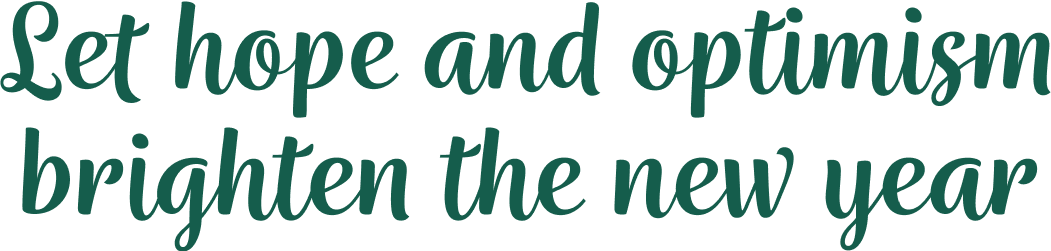
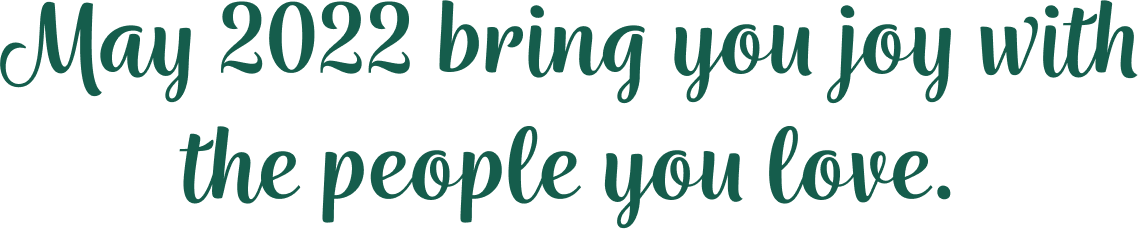
Updates to holiday email

diff --git a/holiday2021/card/index.html b/holiday2021/card/index.html
@@ -1,23 +1,152 @@
-<!doctype html><html xmlns="http://www.w3.org/1999/xhtml" xmlns:v="urn:schemas-microsoft-com:vml" xmlns:o="urn:schemas-microsoft-com:office:office"><head><title></title><!--[if !mso]><!--><meta http-equiv="X-UA-Compatible" content="IE=edge"><!--<![endif]--><meta http-equiv="Content-Type" content="text/html; charset=UTF-8"><meta name="viewport" content="width=device-width,initial-scale=1"><style type="text/css">#outlook a { padding:0; }
-          body { margin:0;padding:0;-webkit-text-size-adjust:100%;-ms-text-size-adjust:100%; }
-          table, td { border-collapse:collapse;mso-table-lspace:0pt;mso-table-rspace:0pt; }
-          img { border:0;height:auto;line-height:100%; outline:none;text-decoration:none;-ms-interpolation-mode:bicubic; }
-          p { display:block;margin:13px 0; }</style><!--[if mso]>
-        <noscript>
-        <xml>
-        <o:OfficeDocumentSettings>
-          <o:AllowPNG/>
-          <o:PixelsPerInch>96</o:PixelsPerInch>
-        </o:OfficeDocumentSettings>
-        </xml>
-        </noscript>
-        <![endif]--><!--[if lte mso 11]>
-        <style type="text/css">
-          .mj-outlook-group-fix { width:100% !important; }
-        </style>
-        <![endif]--><style type="text/css">@media only screen and (min-width:480px) {
-        .mj-column-per-100 { width:100% !important; max-width: 100%; }
-      }</style><style media="screen and (min-width:480px)">.moz-text-html .mj-column-per-100 { width:100% !important; max-width: 100%; }</style><style type="text/css">@media only screen and (max-width:480px) {
-      table.mj-full-width-mobile { width: 100% !important; }
-      td.mj-full-width-mobile { width: auto !important; }
-    }</style><style type="text/css">// @media all and (max-width: 480px) { // div { // font-size:16px !important; // } // }</style></head><body style="word-spacing:normal;background-color:#B7CDCD;"><div style="background-color:#B7CDCD;"><!-- Header --><!--[if mso | IE]><table align="center" border="0" cellpadding="0" cellspacing="0" class="" role="presentation" style="width:600px;" width="600" ><tr><td style="line-height:0px;font-size:0px;mso-line-height-rule:exactly;"><![endif]--><div style="margin:0px auto;max-width:600px;"><table align="center" border="0" cellpadding="0" cellspacing="0" role="presentation" style="width:100%;"><tbody><tr><td style="direction:ltr;font-size:0px;padding:0;padding-top:40px;text-align:center;"><!--[if mso | IE]><table role="presentation" border="0" cellpadding="0" cellspacing="0"><tr><td class="" style="vertical-align:top;width:600px;" ><![endif]--><div class="mj-column-per-100 mj-outlook-group-fix" style="font-size:0px;text-align:left;direction:ltr;display:inline-block;vertical-align:top;width:100%;"><table border="0" cellpadding="0" cellspacing="0" role="presentation" width="100%"><tbody><tr><td style="vertical-align:top;padding:0;"><table border="0" cellpadding="0" cellspacing="0" role="presentation" width="100%"><tbody><tr><td align="center" style="font-size:0px;padding:0;word-break:break-word;"><table border="0" cellpadding="0" cellspacing="0" role="presentation" style="border-collapse:collapse;border-spacing:0px;"><tbody><tr><td style="width:600px;"><a href="https://humboldt.edu" target="_blank" style="color: #444;"><img alt="Happy Holidays from Humboldt State" height="auto" src="https://mailings.humboldt.edu/holiday2021/card/header-img.png" style="border:0;display:block;outline:none;text-decoration:none;height:auto;width:100%;font-size:13px;" width="600"></a></td></tr></tbody></table></td></tr><tr><td align="center" style="font-size:0px;padding:0;word-break:break-word;"><table border="0" cellpadding="0" cellspacing="0" role="presentation" style="border-collapse:collapse;border-spacing:0px;"><tbody><tr><td style="width:600px;"><a href="https://humboldt.edu/holiday/2021" target="_blank" style="color: #444;"><img alt="Founders Hall with lights, watch the holiday video" height="auto" src="https://mailings.humboldt.edu/holiday2021/card/camp113021_0036.jpg" style="border:0;display:block;outline:none;text-decoration:none;height:auto;width:100%;font-size:13px;" width="600"></a></td></tr></tbody></table></td></tr></tbody></table></td></tr></tbody></table></div><!--[if mso | IE]></td></tr></table><![endif]--></td></tr></tbody></table></div><!--[if mso | IE]></td></tr></table><table align="center" border="0" cellpadding="0" cellspacing="0" class="" role="presentation" style="width:600px;" width="600" bgcolor="#ffffff" ><tr><td style="line-height:0px;font-size:0px;mso-line-height-rule:exactly;"><![endif]--><div style="background:#ffffff;background-color:#ffffff;margin:0px auto;max-width:600px;"><table align="center" border="0" cellpadding="0" cellspacing="0" role="presentation" style="background:#ffffff;background-color:#ffffff;width:100%;"><tbody><tr><td style="direction:ltr;font-size:0px;padding:0;text-align:center;"><!--[if mso | IE]><table role="presentation" border="0" cellpadding="0" cellspacing="0"><tr><td class="" style="vertical-align:top;width:600px;" ><![endif]--><div class="mj-column-per-100 mj-outlook-group-fix" style="font-size:0px;text-align:left;direction:ltr;display:inline-block;vertical-align:top;width:100%;"><table border="0" cellpadding="0" cellspacing="0" role="presentation" width="100%"><tbody><tr><td style="vertical-align:top;padding:0;"><table border="0" cellpadding="0" cellspacing="0" role="presentation" width="100%"><tbody><tr><td align="center" style="font-size:0px;padding:50px 60px 20px;word-break:break-word;"><table border="0" cellpadding="0" cellspacing="0" role="presentation" style="border-collapse:collapse;border-spacing:0px;"><tbody><tr><td style="width:480px;"><img alt="Let hope and optimism brighten the new year" height="auto" src="hope.png" style="border:0;display:block;outline:none;text-decoration:none;height:auto;width:100%;font-size:13px;" width="480"></td></tr></tbody></table></td></tr><tr><td align="center" style="font-size:0px;padding:0;padding-top:10px;padding-right:10px;padding-bottom:10px;padding-left:10px;word-break:break-word;"><div style="font-family:Arial, san-serif;;font-size:26px;line-height:1.2;text-align:center;color:#367B5E;">May the new year bring you happiness and laughter with the people you love.</div></td></tr><tr><td align="center" style="font-size:0px;padding:0;padding-top:10px;padding-right:10px;padding-bottom:10px;padding-left:10px;word-break:break-word;"><div style="font-family:Arial, san-serif;;font-size:20px;line-height:1.2;text-align:center;color:#367B5E;">Here’s to the promise of bright, bold beginnings<br>at Humboldt and beyond.<br><br>Warmest wishes for a magical holiday season.</div></td></tr><tr><td align="center" vertical-align="middle" style="font-size:0px;padding:0;padding-top:30px;padding-bottom:20px;word-break:break-word;"><table border="0" cellpadding="0" cellspacing="0" role="presentation" style="border-collapse:separate;line-height:100%;"><tbody><tr><td align="center" bgcolor="#88E2AF" role="presentation" style="border:none;border-radius:5px;cursor:auto;mso-padding-alt:20px;background:#88E2AF;" valign="middle"><a href="https://humboldt.edu/holiday/2021" style="display: inline-block; background: #88E2AF; color: #444444; font-family: Arial, san-serif; font-size: 18px; font-weight: bold; line-height: 1.2; margin: 0; text-decoration: none; text-transform: none; padding: 20px; mso-padding-alt: 0px; border-radius: 5px;" target="_blank">Watch the Holiday Video&nbsp;&nbsp;&#9654;</a></td></tr></tbody></table></td></tr></tbody></table></td></tr></tbody></table></div><!--[if mso | IE]></td></tr></table><![endif]--></td></tr></tbody></table></div><!--[if mso | IE]></td></tr></table><table align="center" border="0" cellpadding="0" cellspacing="0" class="" role="presentation" style="width:600px;" width="600" ><tr><td style="line-height:0px;font-size:0px;mso-line-height-rule:exactly;"><![endif]--><div style="margin:0px auto;max-width:600px;"><table align="center" border="0" cellpadding="0" cellspacing="0" role="presentation" style="width:100%;"><tbody><tr><td style="direction:ltr;font-size:0px;padding:0;padding-top:20px;text-align:center;"><!--[if mso | IE]><table role="presentation" border="0" cellpadding="0" cellspacing="0"><tr><td class="" style="vertical-align:top;width:600px;" ><![endif]--><div class="mj-column-per-100 mj-outlook-group-fix" style="font-size:0px;text-align:left;direction:ltr;display:inline-block;vertical-align:top;width:100%;"><table border="0" cellpadding="0" cellspacing="0" role="presentation" width="100%"><tbody><tr><td style="vertical-align:top;padding:0;"><table border="0" cellpadding="0" cellspacing="0" role="presentation" width="100%"><tbody><tr><td align="center" style="font-size:0px;padding:0;padding-top:10px;word-break:break-word;"><!--[if mso | IE]><table align="center" border="0" cellpadding="0" cellspacing="0" role="presentation" ><tr><td><![endif]--><table align="center" border="0" cellpadding="0" cellspacing="0" role="presentation" style="float:none;display:inline-table;"><tbody><tr><td style="padding:5px;vertical-align:middle;"><table border="0" cellpadding="0" cellspacing="0" role="presentation" style="border-radius:3px;width:36px;"><tbody><tr><td style="font-size:0;height:36px;vertical-align:middle;width:36px;"><a href="https://facebook.com/humboldtstate" target="_blank" style="color: #444;"><img height="36" src="https://mailings.humboldt.edu/holiday2021/card/facebook.png" style="border-radius:3px;display:block;" width="36"></a></td></tr></tbody></table></td></tr></tbody></table><!--[if mso | IE]></td><td><![endif]--><table align="center" border="0" cellpadding="0" cellspacing="0" role="presentation" style="float:none;display:inline-table;"><tbody><tr><td style="padding:5px;vertical-align:middle;"><table border="0" cellpadding="0" cellspacing="0" role="presentation" style="border-radius:3px;width:36px;"><tbody><tr><td style="font-size:0;height:36px;vertical-align:middle;width:36px;"><a href="https://twitter.com/humboldtstate" target="_blank" style="color: #444;"><img height="36" src="https://mailings.humboldt.edu/holiday2021/card/twitter.png" style="border-radius:3px;display:block;" width="36"></a></td></tr></tbody></table></td></tr></tbody></table><!--[if mso | IE]></td><td><![endif]--><table align="center" border="0" cellpadding="0" cellspacing="0" role="presentation" style="float:none;display:inline-table;"><tbody><tr><td style="padding:5px;vertical-align:middle;"><table border="0" cellpadding="0" cellspacing="0" role="presentation" style="border-radius:3px;width:36px;"><tbody><tr><td style="font-size:0;height:36px;vertical-align:middle;width:36px;"><a href="https://flickr.com/humboldtstate" target="_blank" style="color: #444;"><img height="36" src="https://mailings.humboldt.edu/holiday2021/card/flickr.png" style="border-radius:3px;display:block;" width="36"></a></td></tr></tbody></table></td></tr></tbody></table><!--[if mso | IE]></td><td><![endif]--><table align="center" border="0" cellpadding="0" cellspacing="0" role="presentation" style="float:none;display:inline-table;"><tbody><tr><td style="padding:5px;vertical-align:middle;"><table border="0" cellpadding="0" cellspacing="0" role="presentation" style="border-radius:3px;width:36px;"><tbody><tr><td style="font-size:0;height:36px;vertical-align:middle;width:36px;"><a href="https://youtube.com/humboldtonline" target="_blank" style="color: #444;"><img height="36" src="https://mailings.humboldt.edu/holiday2021/card/youtube.png" style="border-radius:3px;display:block;" width="36"></a></td></tr></tbody></table></td></tr></tbody></table><!--[if mso | IE]></td><td><![endif]--><table align="center" border="0" cellpadding="0" cellspacing="0" role="presentation" style="float:none;display:inline-table;"><tbody><tr><td style="padding:5px;vertical-align:middle;"><table border="0" cellpadding="0" cellspacing="0" role="presentation" style="border-radius:3px;width:36px;"><tbody><tr><td style="font-size:0;height:36px;vertical-align:middle;width:36px;"><a href="https://www.linkedin.com/school/humboldt-state-university/" target="_blank" style="color: #444;"><img height="36" src="https://mailings.humboldt.edu/holiday2021/card/linkedin.png" style="border-radius:3px;display:block;" width="36"></a></td></tr></tbody></table></td></tr></tbody></table><!--[if mso | IE]></td><td><![endif]--><table align="center" border="0" cellpadding="0" cellspacing="0" role="presentation" style="float:none;display:inline-table;"><tbody><tr><td style="padding:5px;vertical-align:middle;"><table border="0" cellpadding="0" cellspacing="0" role="presentation" style="border-radius:3px;width:36px;"><tbody><tr><td style="font-size:0;height:36px;vertical-align:middle;width:36px;"><a href="https://instagram.com/humboldtstate" target="_blank" style="color: #444;"><img height="36" src="https://mailings.humboldt.edu/holiday2021/card/instagram.png" style="border-radius:3px;display:block;" width="36"></a></td></tr></tbody></table></td></tr></tbody></table><!--[if mso | IE]></td></tr></table><![endif]--></td></tr></tbody></table></td></tr></tbody></table></div><!--[if mso | IE]></td></tr></table><![endif]--></td></tr></tbody></table></div><!--[if mso | IE]></td></tr></table><table align="center" border="0" cellpadding="0" cellspacing="0" class="" role="presentation" style="width:600px;" width="600" ><tr><td style="line-height:0px;font-size:0px;mso-line-height-rule:exactly;"><![endif]--><div style="margin:0px auto;max-width:600px;"><table align="center" border="0" cellpadding="0" cellspacing="0" role="presentation" style="width:100%;"><tbody><tr><td style="direction:ltr;font-size:0px;padding:0;text-align:center;"><!--[if mso | IE]><table role="presentation" border="0" cellpadding="0" cellspacing="0"><tr><td class="" style="vertical-align:top;width:600px;" ><![endif]--><div class="mj-column-per-100 mj-outlook-group-fix" style="font-size:0px;text-align:left;direction:ltr;display:inline-block;vertical-align:top;width:100%;"><table border="0" cellpadding="0" cellspacing="0" role="presentation" width="100%"><tbody><tr><td style="vertical-align:top;padding:0;"><table border="0" cellpadding="0" cellspacing="0" role="presentation" width="100%"><tbody><tr><td align="center" style="font-size:0px;padding:0;padding-top:10px;padding-right:10px;padding-bottom:40px;padding-left:10px;word-break:break-word;"><div style="font-family:Arial, san-serif;;font-size:16px;line-height:1.2;text-align:center;color:#444444;">Humboldt State University<br>1 Harpst St., Arcata, CA 95521</div></td></tr></tbody></table></td></tr></tbody></table></div><!--[if mso | IE]></td></tr></table><![endif]--></td></tr></tbody></table></div><!--[if mso | IE]></td></tr></table><![endif]--></div></body></html>
+<!doctype html><html xmlns="http://www.w3.org/1999/xhtml" xmlns:v="urn:schemas-microsoft-com:vml" xmlns:o="urn:schemas-microsoft-com:office:office"><head><title></title><!--[if !mso]><!-- --><meta http-equiv="X-UA-Compatible" content="IE=edge"><!--<![endif]--><meta http-equiv="Content-Type" content="text/html; charset=UTF-8"><meta name="viewport" content="width=device-width,initial-scale=1"><style type="text/css">#outlook a { padding:0; }
+  .ReadMsgBody { width:100%; }
+  .ExternalClass { width:100%; }
+  .ExternalClass * { line-height:100%; }
+  body { margin:0;padding:0;-webkit-text-size-adjust:100%;-ms-text-size-adjust:100%; }
+  table, td { border-collapse:collapse;mso-table-lspace:0pt;mso-table-rspace:0pt; }
+  img { border:0;height:auto;line-height:100%; outline:none;text-decoration:none;-ms-interpolation-mode:bicubic; }
+  p { display:block;margin:13px 0; }</style><!--[if !mso]><!--><style type="text/css">@media only screen and (max-width:480px) {
+    @-ms-viewport { width:320px; }
+    @viewport { width:320px; }
+  }</style><!--<![endif]--><!--[if mso]>
+<xml>
+<o:OfficeDocumentSettings>
+  <o:AllowPNG/>
+  <o:PixelsPerInch>96</o:PixelsPerInch>
+</o:OfficeDocumentSettings>
+</xml>
+<![endif]--><!--[if lte mso 11]>
+<style type="text/css">
+  .outlook-group-fix { width:100% !important; }
+</style>
+<![endif]--><style type="text/css">@media only screen and (min-width:480px) {
+.mj-column-per-100 { width:100% !important; }
+}</style><style type="text/css"></style><style type="text/css">// @media all and (max-width: 480px) { // div { // font-size:16px !important; // } // }</style></head><body style="background-color:#B7CDCD;"><div style="background-color:#B7CDCD;"><!-- Header --><!--[if mso | IE]>
+<table
+ align="center" border="0" cellpadding="0" cellspacing="0" style="width:600px;" width="600"
+>
+<tr>
+  <td style="line-height:0px;font-size:0px;mso-line-height-rule:exactly;">
+<![endif]--><div style="Margin:0px auto;max-width:600px;"><table align="center" border="0" cellpadding="0" cellspacing="0" role="presentation" style="width:100%;"><tbody><tr><td style="direction:ltr;font-size:0px;padding:0;padding-top:40px;text-align:center;vertical-align:top;"><!--[if mso | IE]>
+          <table role="presentation" border="0" cellpadding="0" cellspacing="0">
+
+<tr>
+
+    <td
+       style="vertical-align:top;width:600px;"
+    >
+  <![endif]--><div class="mj-column-per-100 outlook-group-fix" style="font-size:13px;text-align:left;direction:ltr;display:inline-block;vertical-align:top;width:100%;"><table border="0" cellpadding="0" cellspacing="0" role="presentation" width="100%"><tbody><tr><td style="vertical-align:top;padding:0;"><table border="0" cellpadding="0" cellspacing="0" role="presentation" width="100%"><tr><td align="center" style="font-size:0px;padding:0;word-break:break-word;"><table align="center" border="0" cellpadding="0" cellspacing="0" role="presentation" style="border-collapse:collapse;border-spacing:0px;"><tbody><tr><td style="width:600px;"><a href="https://humboldt.edu" target="_blank" style="color: #444;"><img alt="Happy Holidays from Humboldt State" height="auto" src="https://mailings.humboldt.edu/holiday2021/card/header-img.png" style="border:0;display:block;outline:none;text-decoration:none;width:100%;" width="600"></a></td></tr></tbody></table></td></tr><tr><td align="center" style="font-size:0px;padding:0;word-break:break-word;"><table align="center" border="0" cellpadding="0" cellspacing="0" role="presentation" style="border-collapse:collapse;border-spacing:0px;"><tbody><tr><td style="width:600px;"><a href="https://youtu.be/qJVCeX-0taM" target="_blank" style="color: #444;"><img alt="Founders Hall with lights, watch the holiday video" height="auto" src="https://mailings.humboldt.edu/holiday2021/card/camp113021_0036.jpg" style="border:0;display:block;outline:none;text-decoration:none;width:100%;" width="600"></a></td></tr></tbody></table></td></tr></table></td></tr></tbody></table></div><!--[if mso | IE]>
+    </td>
+
+</tr>
+
+          </table>
+        <![endif]--></td></tr></tbody></table></div><!--[if mso | IE]>
+  </td>
+</tr>
+</table>
+
+<table
+ align="center" border="0" cellpadding="0" cellspacing="0" style="width:600px;" width="600"
+>
+<tr>
+  <td style="line-height:0px;font-size:0px;mso-line-height-rule:exactly;">
+<![endif]--><div style="background:#fff;background-color:#fff;Margin:0px auto;max-width:600px;"><table align="center" border="0" cellpadding="0" cellspacing="0" role="presentation" style="background:#fff;background-color:#fff;width:100%;"><tbody><tr><td style="direction:ltr;font-size:0px;padding:0;text-align:center;vertical-align:top;"><!--[if mso | IE]>
+          <table role="presentation" border="0" cellpadding="0" cellspacing="0">
+
+<tr>
+
+    <td
+       style="vertical-align:top;width:600px;"
+    >
+  <![endif]--><div class="mj-column-per-100 outlook-group-fix" style="font-size:13px;text-align:left;direction:ltr;display:inline-block;vertical-align:top;width:100%;"><table border="0" cellpadding="0" cellspacing="0" role="presentation" width="100%"><tbody><tr><td style="vertical-align:top;padding:0;"><table border="0" cellpadding="0" cellspacing="0" role="presentation" width="100%"><tr><td align="center" style="font-size:0px;padding:50px 60px 20px;word-break:break-word;"><table align="center" border="0" cellpadding="0" cellspacing="0" role="presentation" style="border-collapse:collapse;border-spacing:0px;"><tbody><tr><td style="width:480px;"><img alt="May 2022 bring you joy with the people you love." height="auto" src="hope.png" style="border:0;display:block;outline:none;text-decoration:none;width:100%;" width="480"></td></tr></tbody></table></td></tr><tr><td align="center" style="font-size:0px;padding:0;padding-top:10px;padding-right:10px;padding-bottom:10px;padding-left:10px;word-break:break-word;"><div style="font-family:Arial, san-serif;;font-size:26px;line-height:1.2;text-align:center;color:#367B5E;">Here’s to bright, bold beginnings at<br>Humboldt and beyond.</div></td></tr><tr><td align="center" style="font-size:0px;padding:0;padding-top:10px;padding-right:25px;padding-bottom:10px;padding-left:25px;word-break:break-word;"><div style="font-family:Arial, san-serif;;font-size:20px;line-height:1.2;text-align:center;color:#367B5E;">From everyone at Humboldt State, warmest wishes for a magical holiday season!</div></td></tr><tr><td align="center" vertical-align="middle" style="font-size:0px;padding:0;padding-top:30px;padding-bottom:20px;word-break:break-word;"><table align="center" border="0" cellpadding="0" cellspacing="0" role="presentation" style="border-collapse:separate;line-height:100%;"><tr><td align="center" bgcolor="#88E2AF" role="presentation" style="border:none;border-radius:5px;color:#444;cursor:auto;padding:20px;" valign="middle"><a href="https://youtu.be/qJVCeX-0taM" style="background: #88E2AF; color: #444; font-family: Arial, san-serif; font-size: 18px; font-weight: bold; line-height: 1.2; Margin: 0; text-decoration: none; text-transform: none;" target="_blank">Watch the Holiday Video&nbsp;&nbsp;&nbsp;&#9654;</a></td></tr></table></td></tr><tr><td align="center" vertical-align="middle" style="font-size:0px;padding:0;padding-top:30px;padding-bottom:20px;word-break:break-word;"><table align="center" border="0" cellpadding="0" cellspacing="0" role="presentation" style="border-collapse:separate;line-height:100%;"><tr><td align="center" bgcolor="#88E2AF" role="presentation" style="border:none;border-radius:5px;color:#444;cursor:auto;padding:20px;" valign="middle"><a href="https://humboldt.edu/holiday/2021" style="background: #88E2AF; color: #444; font-family: Arial, san-serif; font-size: 18px; font-weight: bold; line-height: 1.2; Margin: 0; text-decoration: none; text-transform: none;" target="_blank">Holiday Zoom Backgrounds</a></td></tr></table></td></tr></table></td></tr></tbody></table></div><!--[if mso | IE]>
+    </td>
+
+</tr>
+
+          </table>
+        <![endif]--></td></tr></tbody></table></div><!--[if mso | IE]>
+  </td>
+</tr>
+</table>
+
+<table
+ align="center" border="0" cellpadding="0" cellspacing="0" style="width:600px;" width="600"
+>
+<tr>
+  <td style="line-height:0px;font-size:0px;mso-line-height-rule:exactly;">
+<![endif]--><div style="Margin:0px auto;max-width:600px;"><table align="center" border="0" cellpadding="0" cellspacing="0" role="presentation" style="width:100%;"><tbody><tr><td style="direction:ltr;font-size:0px;padding:0;padding-top:20px;text-align:center;vertical-align:top;"><!--[if mso | IE]>
+          <table role="presentation" border="0" cellpadding="0" cellspacing="0">
+
+<tr>
+
+    <td
+       style="vertical-align:top;width:600px;"
+    >
+  <![endif]--><div class="mj-column-per-100 outlook-group-fix" style="font-size:13px;text-align:left;direction:ltr;display:inline-block;vertical-align:top;width:100%;"><table border="0" cellpadding="0" cellspacing="0" role="presentation" width="100%"><tbody><tr><td style="vertical-align:top;padding:0;"><table border="0" cellpadding="0" cellspacing="0" role="presentation" width="100%"><tr><td align="center" style="font-size:0px;padding:0;padding-top:10px;word-break:break-word;"><!--[if mso | IE]>
+<table
+ align="center" border="0" cellpadding="0" cellspacing="0" role="presentation"
+>
+<tr>
+
+      <td>
+    <![endif]--><table align="center" border="0" cellpadding="0" cellspacing="0" role="presentation" style="float:none;display:inline-table;"><tr><td style="padding:5px;"><table border="0" cellpadding="0" cellspacing="0" role="presentation" style="border-radius:3px;width:36px;"><tr><td style="font-size:0;height:36px;vertical-align:middle;width:36px;"><a href="https://facebook.com/humboldtstate" target="_blank" style="color: #444;"><img height="36" src="https://mailings.humboldt.edu/holiday2021/card/facebook.png" style="border-radius:3px;" width="36"></a></td></tr></table></td></tr></table><!--[if mso | IE]>
+      </td>
+
+      <td>
+    <![endif]--><table align="center" border="0" cellpadding="0" cellspacing="0" role="presentation" style="float:none;display:inline-table;"><tr><td style="padding:5px;"><table border="0" cellpadding="0" cellspacing="0" role="presentation" style="border-radius:3px;width:36px;"><tr><td style="font-size:0;height:36px;vertical-align:middle;width:36px;"><a href="https://twitter.com/humboldtstate" target="_blank" style="color: #444;"><img height="36" src="https://mailings.humboldt.edu/holiday2021/card/twitter.png" style="border-radius:3px;" width="36"></a></td></tr></table></td></tr></table><!--[if mso | IE]>
+      </td>
+
+      <td>
+    <![endif]--><table align="center" border="0" cellpadding="0" cellspacing="0" role="presentation" style="float:none;display:inline-table;"><tr><td style="padding:5px;"><table border="0" cellpadding="0" cellspacing="0" role="presentation" style="border-radius:3px;width:36px;"><tr><td style="font-size:0;height:36px;vertical-align:middle;width:36px;"><a href="https://flickr.com/humboldtstate" target="_blank" style="color: #444;"><img height="36" src="https://mailings.humboldt.edu/holiday2021/card/flickr.png" style="border-radius:3px;" width="36"></a></td></tr></table></td></tr></table><!--[if mso | IE]>
+      </td>
+
+      <td>
+    <![endif]--><table align="center" border="0" cellpadding="0" cellspacing="0" role="presentation" style="float:none;display:inline-table;"><tr><td style="padding:5px;"><table border="0" cellpadding="0" cellspacing="0" role="presentation" style="border-radius:3px;width:36px;"><tr><td style="font-size:0;height:36px;vertical-align:middle;width:36px;"><a href="https://youtube.com/humboldtonline" target="_blank" style="color: #444;"><img height="36" src="https://mailings.humboldt.edu/holiday2021/card/youtube.png" style="border-radius:3px;" width="36"></a></td></tr></table></td></tr></table><!--[if mso | IE]>
+      </td>
+
+      <td>
+    <![endif]--><table align="center" border="0" cellpadding="0" cellspacing="0" role="presentation" style="float:none;display:inline-table;"><tr><td style="padding:5px;"><table border="0" cellpadding="0" cellspacing="0" role="presentation" style="border-radius:3px;width:36px;"><tr><td style="font-size:0;height:36px;vertical-align:middle;width:36px;"><a href="https://www.linkedin.com/school/humboldt-state-university/" target="_blank" style="color: #444;"><img height="36" src="https://mailings.humboldt.edu/holiday2021/card/linkedin.png" style="border-radius:3px;" width="36"></a></td></tr></table></td></tr></table><!--[if mso | IE]>
+      </td>
+
+      <td>
+    <![endif]--><table align="center" border="0" cellpadding="0" cellspacing="0" role="presentation" style="float:none;display:inline-table;"><tr><td style="padding:5px;"><table border="0" cellpadding="0" cellspacing="0" role="presentation" style="border-radius:3px;width:36px;"><tr><td style="font-size:0;height:36px;vertical-align:middle;width:36px;"><a href="https://instagram.com/humboldtstate" target="_blank" style="color: #444;"><img height="36" src="https://mailings.humboldt.edu/holiday2021/card/instagram.png" style="border-radius:3px;" width="36"></a></td></tr></table></td></tr></table><!--[if mso | IE]>
+      </td>
+
+  </tr>
+</table>
+<![endif]--></td></tr></table></td></tr></tbody></table></div><!--[if mso | IE]>
+    </td>
+
+</tr>
+
+          </table>
+        <![endif]--></td></tr></tbody></table></div><!--[if mso | IE]>
+  </td>
+</tr>
+</table>
+
+<table
+ align="center" border="0" cellpadding="0" cellspacing="0" style="width:600px;" width="600"
+>
+<tr>
+  <td style="line-height:0px;font-size:0px;mso-line-height-rule:exactly;">
+<![endif]--><div style="Margin:0px auto;max-width:600px;"><table align="center" border="0" cellpadding="0" cellspacing="0" role="presentation" style="width:100%;"><tbody><tr><td style="direction:ltr;font-size:0px;padding:0;text-align:center;vertical-align:top;"><!--[if mso | IE]>
+          <table role="presentation" border="0" cellpadding="0" cellspacing="0">
+
+<tr>
+
+    <td
+       style="vertical-align:top;width:600px;"
+    >
+  <![endif]--><div class="mj-column-per-100 outlook-group-fix" style="font-size:13px;text-align:left;direction:ltr;display:inline-block;vertical-align:top;width:100%;"><table border="0" cellpadding="0" cellspacing="0" role="presentation" width="100%"><tbody><tr><td style="vertical-align:top;padding:0;"><table border="0" cellpadding="0" cellspacing="0" role="presentation" width="100%"><tr><td align="center" style="font-size:0px;padding:0;padding-top:10px;padding-right:10px;padding-bottom:40px;padding-left:10px;word-break:break-word;"><div style="font-family:Arial, san-serif;;font-size:16px;line-height:1.2;text-align:center;color:#444;">Humboldt State University<br>1 Harpst St., Arcata, CA 95521</div></td></tr></table></td></tr></tbody></table></div><!--[if mso | IE]>
+    </td>
+
+</tr>
+
+          </table>
+        <![endif]--></td></tr></tbody></table></div><!--[if mso | IE]>
+  </td>
+</tr>
+</table>
+<![endif]--></div></body></html>
